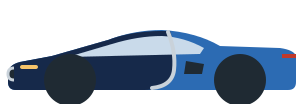
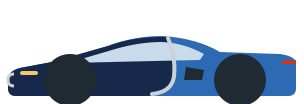
Lower the sports car body another 6 px
The body is now moved down 16 px in total. The wheels and the image
size do not change.

Claude-Session: https://claude.ai/code/session_01F1XyeJbkdn1kDtDDVeB88k

Changed region(s): [[0.0, 0.2885, 0.977, 0.9231], [0.8586, 0.8077, 0.977, 0.9231]]

diff --git a/tools/generate_images.py b/tools/generate_images.py
@@ -335,8 +335,8 @@ save(truck, "0 0 300 130", 300, 130, "car_truck.png")
 SP, SPD, CHROME = "#2C6BB3", "#16294A", "#C9D2DA"
 # The roof peak is toward the back and the windshield is long and low, so the
 # front (right side) is easy to see. The hood is lower than the rear deck.
-# The body is moved down 10 px so it sits close to the ground.
-sports = ('<g transform="translate(0,10)">'
+# The body is moved down 16 px so it sits close to the ground.
+sports = ('<g transform="translate(0,16)">'
           f'<path fill="{SP}" d="M8,72 L8,46 Q10,40 24,38 L84,36 Q108,22 142,20 Q170,20 196,30 L252,46 L284,52 Q296,55 296,64 L296,72 Q296,80 288,80 L16,80 Q8,80 8,72 Z"/>'
           f'<path fill="{SPD}" d="M134,21 Q170,20 196,30 L252,46 L284,52 Q296,55 296,64 L296,72 Q296,80 288,80 L160,80 Q132,80 130,60 Q128,38 134,21 Z"/>'
           f'<path fill="{GLASS}" d="M100,38 Q120,27 142,26 Q166,26 192,34 L236,47 L104,44 Z"/>'
